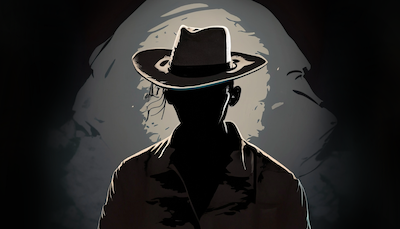
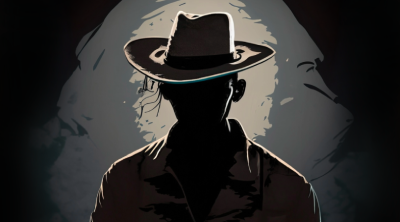
refactor Card component, improve image designs, verify QR scanning

diff --git a/src/components/molecules/Card.tsx b/src/components/molecules/Card.tsx
@@ -1,18 +1,13 @@
 import { useState } from "react";
 
-import styled from "@emotion/styled";
-import blueAgentFemale from "../../assets/agentImages/blueAgentFemale.png";
-import redAgentFemale from "../../assets/agentImages/redAgentFemale.png";
-import blueAgentMale from "../../assets/agentImages/blueAgentMale.png";
-import redAgentMale from "../../assets/agentImages/redAgentMale.png";
+import styled, { CSSObject } from "@emotion/styled";
 import assassin from "../../assets/agentImages/assassin.png";
+import blueAgentFemale from "../../assets/agentImages/blueAgentFemale.png";
+import blueAgentMale from "../../assets/agentImages/blueAgentMale.png";
 import bystanderFemale from "../../assets/agentImages/bystanderFemale.png";
 import bystanderMale from "../../assets/agentImages/bystanderMale.png";
 
-import {
-  mapRoleToBackgroundColor,
-  // mapRoleToForegroundColor,
-} from "../../lib/utils";
+import { pickRandomly } from "../../lib/utils";
 import { CardRole, GameVariant, Language, Word as WordType } from "../../types";
 import { Line, Word } from "../atoms";
 
@@ -23,80 +18,78 @@ type Props = {
   language: Language;
 };
 
+const getRoleSpecificStyles = (
+  role: CardRole,
+  isRevealed: boolean
+): CSSObject => {
+  const cardImageUrl =
+    role === "black"
+      ? assassin
+      : role === "neutral"
+      ? pickRandomly(bystanderMale, bystanderFemale)
+      : pickRandomly(blueAgentMale, blueAgentFemale);
+
+  const filter =
+    role === "red"
+      ? "hue-rotate(140deg) contrast(1.6) saturate(0.7)"
+      : undefined;
+
+  const scaleTransform = `scale(${isRevealed ? "1" : "2"})`;
+  const flipImageWhenRed = `scaleX(${role === "red" ? "-1" : "1"})`;
+  const rotateCardSlightly = `rotate(${Math.floor(Math.random() * 11) - 5}deg)`;
+
+  return {
+    filter,
+    backgroundImage: `url(${cardImageUrl})`,
+    transform: `${scaleTransform} ${flipImageWhenRed} ${rotateCardSlightly}`,
+  };
+};
+
 const StyledButtonCard = styled.button<{
   isRoleRevealed: boolean;
   cardRole: CardRole;
-}>(({ isRoleRevealed, cardRole, theme }) => ({
-  position: "relative",
-  transition: "cubic-bezier(1, 0.01, 0.47, 0.99) 1s",
-  height: "16vh",
-  width: "18vw",
-  display: "flex",
-  flexDirection: "column",
-  alignItems: "center",
-  justifyContent: "center",
-  margin: "auto",
-  padding: 0,
-  border: "none",
-  borderRadius: "10px",
-  boxShadow: isRoleRevealed
-    ? "none"
-    : `0 4px 8px 0 ${theme.colors.card.shadow}32, 0 6px 20px 0 ${theme.colors.card.shadow}32`,
-  color: isRoleRevealed
-    ? theme.colors.card.text //mapRoleToForegroundColor(cardRole, theme)
-    : theme.colors.card.text,
-  backgroundColor: theme.colors.card.hidden,
-  "&:hover": {
-    cursor: isRoleRevealed ? "default" : "pointer",
-  },
-  "&:before": {
-    transition: "cubic-bezier(1, 0.01, 0.47, 0.99) 1s",
-    transitionProperty: "transform, background-color, opacity",
-    willChange: "transform, background-color, opacity",
+}>(({ isRoleRevealed, cardRole, theme }) => {
+  const transition = "cubic-bezier(1, 0.01, 0.47, 0.99) 1s";
+  const boxShadow = `0 4px 8px 0 ${theme.colors.card.shadow}32, 0 6px 20px 0 ${theme.colors.card.shadow}32`;
 
-    backgroundImage: `url(${
-      cardRole === "blue" || cardRole === "red"
-        ? Math.random() < 0.5
-          ? blueAgentFemale
-          : blueAgentMale
-        : // : cardRole === "red"
-        // ? Math.random() < 0.5
-        //   ? redAgentFemale
-        //   : redAgentMale
-        cardRole === "neutral"
-        ? Math.random() < 0.5
-          ? bystanderMale
-          : bystanderFemale
-        : assassin
-    })`,
-    filter:
-      cardRole === "neutral"
-        ? "saturate(0.5)"
-        : cardRole === "red"
-        ? "hue-rotate(140deg) contrast(1.6) saturate(0.7)"
-        : "",
-    backgroundSize: "cover",
-    backgroundRepeat: "no-repeat",
-    backgroundPosition: "top center",
-
-    content: '""',
+  return {
+    transition,
+    backgroundColor: theme.colors.card.hidden,
+    color: theme.colors.card.text,
+    display: "flex",
+    position: "relative",
+    height: "16vh",
+    width: "18vw",
+    flexDirection: "column",
+    alignItems: "center",
+    justifyContent: "center",
+    margin: "auto",
+    padding: 0,
+    border: "none",
     borderRadius: "10px",
-    position: "absolute",
-    width: "100%",
-    height: "100%",
-    opacity: isRoleRevealed ? 1 : 0,
-    zIndex: isRoleRevealed ? 1 : -1,
-    transform: `scale(${isRoleRevealed ? "1" : "2"}) rotate(${
-      Math.floor(Math.random() * 11) - 5
-    }deg) scaleX(${cardRole === "red" ? "-1" : "1"})`,
-    backgroundColor: isRoleRevealed
-      ? mapRoleToBackgroundColor(cardRole, theme)
-      : theme.colors.card.hidden,
-    boxShadow: ` 0 4px 8px 0 ${theme.colors.card.shadow}32, 0 6px 20px 0 ${
-      theme.colors.card.shadow
-    }32 ${cardRole !== "red" ? ",inset 0px 0px 50px #00000099" : ""}`,
-  },
-}));
+    boxShadow: isRoleRevealed ? "none" : boxShadow,
+    "&:hover": {
+      cursor: isRoleRevealed ? "default" : "pointer",
+    },
+    "&:before": {
+      boxShadow,
+      transition,
+      content: '""',
+      transitionProperty: "transform, background-color, opacity",
+      willChange: "transform, background-color, opacity",
+      backgroundSize: "cover",
+      backgroundRepeat: "no-repeat",
+      backgroundPosition: "top center",
+      borderRadius: "10px",
+      position: "absolute",
+      width: "100%",
+      height: "100%",
+      opacity: isRoleRevealed ? 1 : 0,
+      zIndex: isRoleRevealed ? 1 : -1,
+      ...getRoleSpecificStyles(cardRole, isRoleRevealed),
+    },
+  };
+});
 
 const CardContentContainer = styled.span<{ isSingleMode: boolean }>(
   ({ isSingleMode, theme }) => ({
@@ -132,6 +125,7 @@ export function Card({
   return (
     <StyledButtonCard
       cardRole={cardRole}
+      disabled={isRoleRevealed}
       isRoleRevealed={isRoleRevealed}
       onClick={() => setIsRoleRevealed(true)}
     >
@@ -145,7 +139,7 @@ export function Card({
             <Line />
           </>
         )}
-        <Word isBold word={word} showBackground={true} />
+        <Word isBold showBackground word={word} />
       </CardContentContainer>
     </StyledButtonCard>
   );

diff --git a/src/lib/utils.tsx b/src/lib/utils.tsx
@@ -27,13 +27,6 @@ const assignRoles = (words: Array<Word>): Array<WordCard> => {
   return assigned.sort(() => Math.random() - 0.5);
 };
 
-// export const roleToBackgroundColorMap: { [key in CardRole]: string } = {
-//   neutral: "#efefef",
-//   blue: "#7acaff",
-//   red: "#ff5d56",
-//   black: "#000000",
-// };
-
 export const mapRoleToBackgroundColor = (
   role: CardRole,
   theme: Theme
@@ -48,27 +41,6 @@ export const mapRoleToBackgroundColor = (
   return roleToBackgroundColorMap[role];
 };
 
-// export const mapRoleToForegroundColor = (
-//   role: CardRole,
-//   theme: Theme
-// ): string => {
-//   const roleToForegroundColorMap: { [key in CardRole]: string } = {
-//     neutral: theme.colors.card.text,
-//     blue: theme.colors.card.text,
-//     red: theme.colors.card.text,
-//     black: theme.colors.card.inversedText,
-//   };
-
-//   return `${roleToForegroundColorMap[role]}33`;
-// };
-
-// export const roleToForegroundColorMap: { [key in CardRole]: string } = {
-//   neutral: "#000000",
-//   blue: "#000000",
-//   red: "#000000",
-//   black: "#ffffff",
-// };
-
 export const roleToSignMap: { [key in CardRole]: Optional<ReactNode> } = {
   black: <ImCross />,
   red: <BsCircle />,
@@ -77,7 +49,16 @@ export const roleToSignMap: { [key in CardRole]: Optional<ReactNode> } = {
 };
 
 export const parseRolesFromCSVString = (text: string): Array<CardRole> => {
-  return text.split(",") as Array<CardRole>;
+  const parsedValues = text.split(",") as Array<CardRole>;
+  const acceptedValues: Array<CardRole> = ["red", "blue", "black", "neutral"];
+
+  const wasParsingSuccessful = parsedValues.every((value) =>
+    acceptedValues.includes(value)
+  );
+  return wasParsingSuccessful ? parsedValues : [];
 };
+
+export const pickRandomly = <T,>(option1: T, option2: T): T =>
+  Math.random() > 0.5 ? option1 : option2;
 
 export const getNewWordCardSet = () => assignRoles(get25RandomWords(WORD_BANK));

diff --git a/src/components/pages/MapPage.tsx b/src/components/pages/MapPage.tsx
@@ -32,18 +32,17 @@ export function MapPage() {
   const [scannedText, setScannedText] = useState<Optional<string>>(null);
   const [isMapRevealed, setIsMapRevealed] = useState<boolean>(false);
   const { theme } = useTheme();
+
+  const scannedRoles = scannedText ? parseRolesFromCSVString(scannedText) : [];
+
   return (
     <MapPageContainer>
       <Box mb="32px">
         <ThemeButton />
       </Box>
-      {scannedText ? (
+      {scannedRoles.length ? (
         <>
-          {/* <HomepageLink /> */}
-          <GameMap
-            isMapRevealed={isMapRevealed}
-            rolesForRound={parseRolesFromCSVString(scannedText)}
-          />
+          <GameMap isMapRevealed={isMapRevealed} rolesForRound={scannedRoles} />
           {isMapRevealed ? (
             <Button
               onClick={() => {
@@ -59,10 +58,7 @@ export function MapPage() {
               <Box as="h2" css={{ color: "green", fontWeight: 300 }}>
                 Map Ready!
               </Box>
-              {/* <Box mt="1rem" display="flex" gap="8px">
-                <HomepageLink /> */}
               <Button onClick={() => setIsMapRevealed(true)}>Reveal Map</Button>
-              {/* </Box> */}
             </>
           )}
         </>
@@ -75,13 +71,6 @@ export function MapPage() {
           <QrScanner onScanResult={setScannedText} />
           <Box mt="1rem" display="flex" gap="8px">
             <HomepageLink />
-            {/* <Link to={"/board"}>
-              <TextWithIcon
-                text="Go to board"
-                icon={PiCardsDuotone}
-                gap="4px"
-              />
-            </Link> */}
           </Box>
         </>
       )}

diff --git a/src/theme/theme.ts b/src/theme/theme.ts
@@ -6,8 +6,6 @@ import { colors } from "./colors";
 export type ThemeName = "dark" | "light";
 
 export type MyTheme = {
-  // blueTeam: string,
-  // redTeam: string,
   gameBackground: string;
   text: string;
   buttonBackground: string;
@@ -32,8 +30,6 @@ export type MyTheme = {
     text: string;
   };
   qr: {
-    // background: string;
-    // foreground: string;
     border: string;
   };
 };
@@ -64,8 +60,6 @@ const lightTheme: Theme = {
       text: colors.white,
     },
     qr: {
-      // background: colors.white,
-      // foreground: colors.black,
       border: colors.white,
     },
   },
@@ -79,17 +73,17 @@ const darkTheme: Theme = {
     successText: colors.japaneseLaurel,
     errorText: colors.red,
     card: {
-      line: `${colors.white}1a`,
+      line: `${colors.white}0d`,
       inversedText: colors.alot,
       text: colors.white,
-      textBackground: colors.shark,
-      hidden: colors.bistre,
+      textBackground: `${colors.white}0d`,
+      hidden: colors.transparent,
       neutral: colors.sharkLight,
       blue: colors.chathamsBlue,
       red: colors.darkTan,
       black: colors.black,
       shadow: colors.black,
-      border: `${colors.shadow}80`, //TODO refactor transparency
+      border: colors.sharkLight,
     },
     map: {
       border: colors.capeCod,
@@ -97,8 +91,6 @@ const darkTheme: Theme = {
       text: colors.alot,
     },
     qr: {
-      // background: colors.white,
-      // foreground: colors.black,
       border: colors.white,
     },
   },

diff --git a/src/context/GameContext.tsx b/src/context/GameContext.tsx
@@ -3,7 +3,7 @@ import { GameState } from "../types";
 
 const DEFAULT_STATE: GameState = {
   theme: "light",
-  language: "english",
+  language: "czech",
   startingColor: "red", //TODO not implemented yet 
   gameVariant: "single",
 };

diff --git a/src/theme/colors.ts b/src/theme/colors.ts
@@ -18,4 +18,5 @@ export const colors = {
   white: "#ffffff",
   bistre: "#36291c",
   shadow: "#8e7754",
+  transparent: "transparent",
 }
